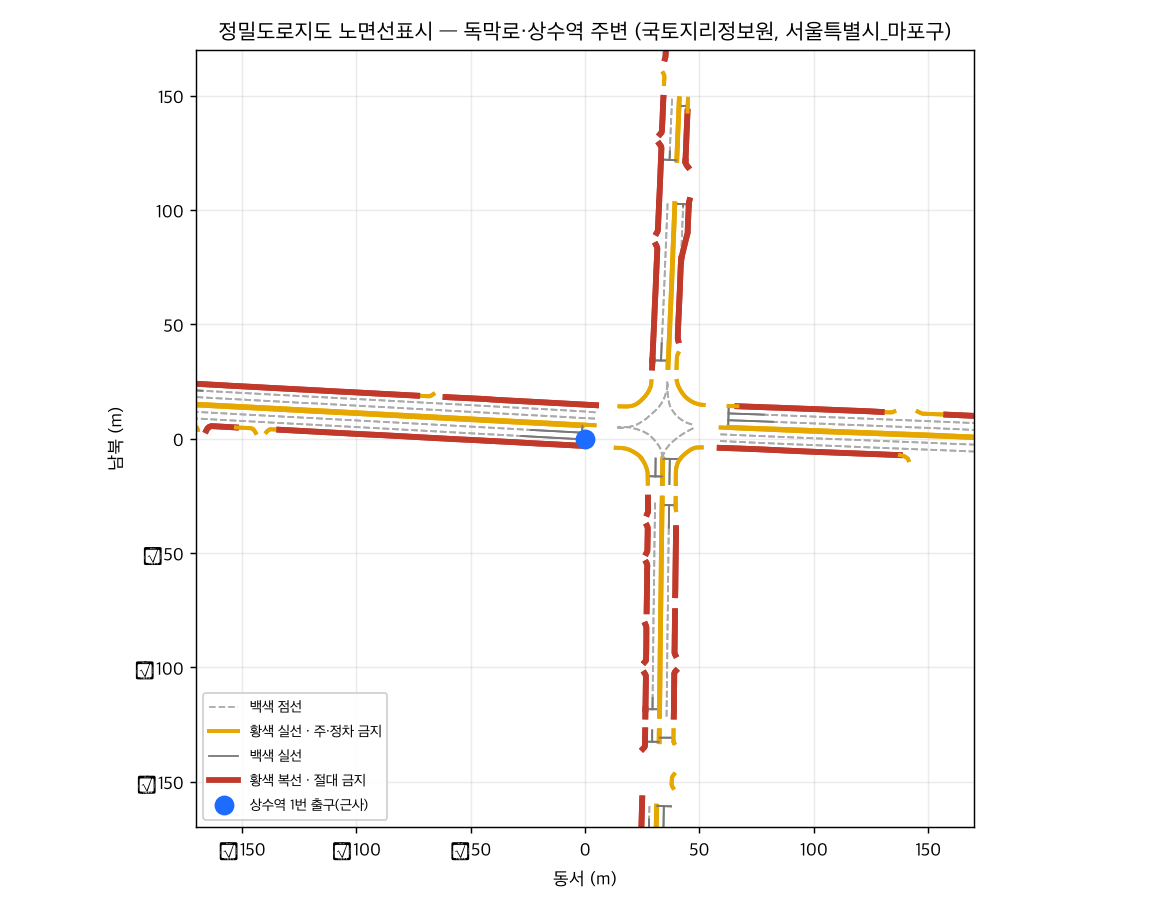
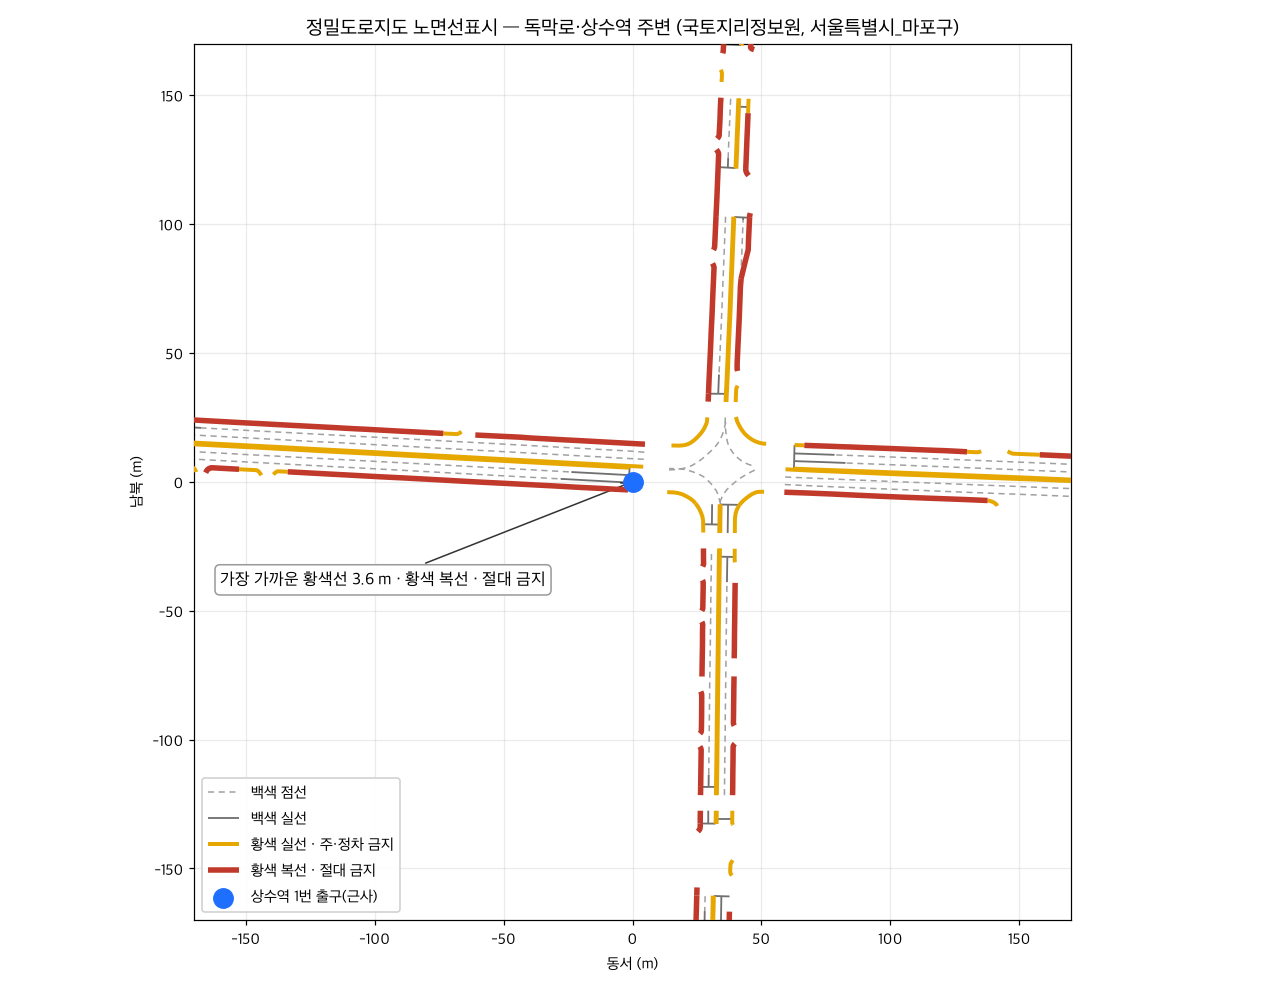
상수역 차선 판정 그림 다시 그림(음수 부호·주석) + 그리는 스크립트 scripts/hdmap_plot.py
- 국토지리정보원 정밀도로지도 서울 마포구 패키지의 노면선표시(UTMK)로 상수역 1번 출구 반경 170 m.
- 가장 가까운 황색선 3.6 m 황색 복선(절대 금지)을 그림에 표시. 기획서 7장 별지로 쓴다.

Changed region(s): [[0.0923, 0.0, 0.8615, 0.9846]]

diff --git a/scripts/hdmap_plot.py b/scripts/hdmap_plot.py
@@ -1,0 +1,55 @@
+#!/usr/bin/env python3
+"""정밀도로지도 노면선표시 그림: 상수역 1번 출구(37.5477, 126.9226) 반경 170 m (docs/hdmap-sangsu-curb-lines.png).
+사용: python scripts/hdmap_plot.py <B2_SURFACELINEMARK 를 구간별 폴더로 풀어 둔 폴더> <out.png>
+필요 패키지: pyshp, pyproj, matplotlib. UTMK(EPSG:5179) 버전만 쓰고 ID·Type 으로 중복을 합친다.
+"""
+import shapefile
+from pyproj import Transformer
+import matplotlib; matplotlib.use("Agg")
+import matplotlib.pyplot as plt
+from matplotlib import font_manager
+ext, out = sys.argv[1], sys.argv[2]
+LAT, LNG, R = 37.5477, 126.9226, 170
+font_manager.fontManager.addfont("/System/Library/Fonts/AppleSDGothicNeo.ttc")
+plt.rcParams["font.family"] = "Apple SD Gothic Neo"; plt.rcParams["axes.unicode_minus"] = False
+to5179 = Transformer.from_crs("EPSG:4326", "EPSG:5179", always_xy=True)
+cx, cy = to5179.transform(LNG, LAT)
+STY = {  # type → (label, color, width, dashes, z)
+ "212": ("백색 점선", "#a0a0a0", 1.0, (4, 3), 1), "211": ("백색 실선", "#707070", 1.2, None, 2),
+ "121": ("황색 점선 · 5분 정차", "#e6a700", 2.6, (6, 4), 3), "111": ("황색 실선 · 주·정차 금지", "#e6a700", 2.6, None, 3),
+ "112": ("황색 복선 · 절대 금지", "#c0392b", 3.6, None, 4), "122": ("황색 복선 · 절대 금지", "#c0392b", 3.6, None, 4)}
+seen=set(); used=set(); fig, ax = plt.subplots(figsize=(11.5, 9), dpi=110)
+nearest=(1e9,None)
+for shp in glob.glob(os.path.join(ext, "*", "B2_SURFACELINEMARK.shp")):
+    folder=os.path.dirname(shp)
+    try: r = shapefile.Reader(shp, encodingErrors="replace")
+    except Exception: continue
+    prj=open(os.path.join(folder,"B2_SURFACELINEMARK.prj"),errors="ignore").read()
+    if "UTM zone 52" in prj or "UTM_Zone_52" in prj or "52N" in prj: continue   # UTMK(5179) 만
+    names=[f[0] for f in r.fields[1:]]
+    for sr in r.iterShapeRecords():
+        rec=dict(zip(names, sr.record)); t=str(rec.get("Type","")).strip(); key=(str(rec.get("ID","")), t)
+        if key in seen: continue
+        seen.add(key)
+        pts=[(x-cx, y-cy) for x,y,*_ in sr.shape.points]
+        if not pts or all(abs(x)>R*1.3 or abs(y)>R*1.3 for x,y in pts): continue
+        st=STY.get(t)
+        if not st: continue
+        lab,col,w,dash,z=st
+        xs,ys=zip(*pts)
+        ln,=ax.plot(xs,ys,color=col,lw=w,zorder=z,label=lab if lab not in used else None,solid_capstyle="butt")
+        if dash: ln.set_dashes(dash)
+        used.add(lab)
+        if t in ("111","112","121","122"):
+            for x,y in pts:
+                dd=(x*x+y*y)**0.5
+                if dd<nearest[0]: nearest=(dd,t)
+ax.scatter([0],[0],s=160,color="#1f6fff",zorder=6,label="상수역 1번 출구(근사)")
+ax.set_xlim(-R,R); ax.set_ylim(-R,R); ax.set_aspect("equal"); ax.grid(alpha=0.25)
+ax.set_xlabel("동서 (m)"); ax.set_ylabel("남북 (m)")
+ax.set_title("정밀도로지도 노면선표시 — 독막로·상수역 주변 (국토지리정보원, 서울특별시_마포구)", fontsize=13)
+h,l=ax.get_legend_handles_labels(); order=sorted(range(len(l)), key=lambda i: ["백색 점선","백색 실선","황색 점선 · 5분 정차","황색 실선 · 주·정차 금지","황색 복선 · 절대 금지","상수역 1번 출구(근사)"].index(l[i]))
+ax.legend([h[i] for i in order],[l[i] for i in order],loc="lower left",fontsize=10,framealpha=0.95)
+ax.annotate(f"가장 가까운 황색선 {nearest[0]:.1f} m · {STY[nearest[1]][0]}", xy=(0,0), xytext=(-160,-40), fontsize=11,
+            arrowprops=dict(arrowstyle="->",color="#333"), bbox=dict(boxstyle="round",fc="white",ec="#999"))
+fig.tight_layout(); fig.savefig(out); print("nearest", nearest, "lines", len(seen))
